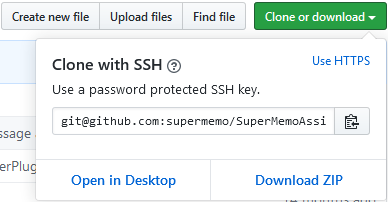
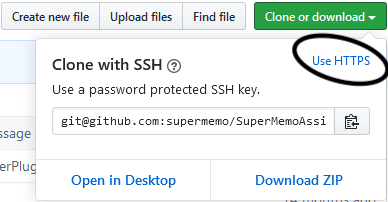
Edits
Made edits to content based on suggestions from people in SM discord. Added some optional suggestions for people to sync between computers and to ping commit.bat to taskbar. Integrated git setup with a MUCH easier method.

Changed region(s): [[0.7423, 0.1485, 1.0, 0.4455]]

diff --git a/docs/qs-backup-setup.md b/docs/qs-backup-setup.md
@@ -2,7 +2,7 @@
 
 #### Why should you backup ?
 
-!> ⚠ **Your collection is precious**. If you are using SuperMemo, you will likely be pouring days, weeks or months of your life in building it. Don't let it all go to waste. **Having frequent backups is vital**.
+!> ⚠ **Your collection is precious**. If you are using SuperMemo, you will likely be pouring days, weeks or months of your life into building it. Don't let it all go to waste. **Having frequent backups is vital**.
 
 Do you care about your health ? Would you take a gamble with your life and forfeit your health insurance ? If your answer is no, then keep reading.
 
@@ -30,19 +30,24 @@ As of the moment of writing this guide (2020/02), this solution is **free** (as 
 
 ##### I) (*Optional*) Create a partition for your SuperMemo collections
 
-For easier management of your files, and to save space for the frequent snapshots (more on these later), we recommend creating a partition dedicated to your SuperMemo collection.
+For easier management of your files, and to save space for the frequent snapshots (more on this later), we recommend creating a partition dedicated to your SuperMemo collection. A partition will allow you to keep your SuperMemo files completely seperated from your Window's C:/ drive. 
 
 ?> If you do not know how to create a partition in Windows, you can [follow this guide](https://www.tomshardware.com/news/how-to-make-partitions-windows-10,36643.html).
 
 You should obtain a layout similar to this one (it is fine if you only have one disk, instead of two as in this example):
+
 <img src="/content/images/backup-setup/computer-management-disks.png" data-origin="/content/images/backup-setup/computer-management-disks.png" alt="SuperMemo partition">
+
+
 
 ##### II) Install & Configuration
 
 ###### Installing BitShelter
 
+?>Note that BitShelter will likely not run on 32 bit systems
+
 1. Download and install [the latest version](https://github.com/alexis-/BitShelter/releases) of *BitShelter*
-2. Start **BitShelter Agent** from the Windows Start menu
+2. Start **BitShelter Agent** from the Windows Start menu.
 3. Double-click on the [Tray Icon ![](https://github.com/alexis-/BitShelter/raw/master/Resources/BitShelter.Agent_TrayIcon.png)](# '@tooltip-preview') 🖼
 
 ###### Enabling Windows' Volume Snapshot Service (VSS)
@@ -51,13 +56,15 @@ You should obtain a layout similar to this one (it is fine if you only have one 
 
 ?> **In this example, the SuperMemo collection Drive Letter is E:\**
 
-1. In the [Main Window ![](https://raw.githubusercontent.com/alexis-/BitShelter/master/Resources/BitShelter.Agent_Rules.png)](https://raw.githubusercontent.com/alexis-/BitShelter/master/Resources/BitShelter.Agent_Rules.png '@tooltip-preview'), click on the <kbd>**Add Schedule**</kbd> button
-2. Click on <kbd>**Enable other Drive(s)**</kbd> in the [General tab ![](https://github.com/alexis-/BitShelter/raw/master/Resources/BitShelter.Agent_General.png)](https://github.com/alexis-/BitShelter/raw/master/Resources/BitShelter.Agent_General.png '@tooltip-preview')
-3. Select the SuperMemo drive **(E:\\)** in the [System Protection dialog ![](https://github.com/alexis-/BitShelter/raw/master/Resources/SystemPropertiesProtection_2018-05-05_13-10-18.png)](https://github.com/alexis-/BitShelter/raw/master/Resources/SystemPropertiesProtection_2018-05-05_13-10-18.png '@tooltip-preview') and click on <kbd>**Configure**</kbd>
-4. In the [new dialog ![](https://github.com/alexis-/BitShelter/raw/master/Resources/SystemPropertiesProtection_2018-05-05_13-10-22.png)](https://github.com/alexis-/BitShelter/raw/master/Resources/SystemPropertiesProtection_2018-05-05_13-10-22.png '@tooltip-preview') click on <kbd>**Turn on protection**</kbd>, select at least 2GB of desired reserved space(\*) for Snapshots, then press <kbd>**OK**</kbd>
-5. Back in the [General tab ![](https://github.com/alexis-/BitShelter/raw/master/Resources/BitShelter.Agent_General.png)](https://github.com/alexis-/BitShelter/raw/master/Resources/BitShelter.Agent_General.png '@tooltip-preview'), click on <kbd>**Raise limit**</kbd>, and set the new limit to **512**
+1. In the [Main Window ![](https://raw.githubusercontent.com/alexis-/BitShelter/master/Resources/BitShelter.Agent_Rules.png)](https://raw.githubusercontent.com/alexis-/BitShelter/master/Resources/BitShelter.Agent_Rules.png '@tooltip-preview'), click on the <kbd>**Add Schedule**</kbd> button (If you get [this error ![](/content/images/backup-setup/bitshelter-error.png)](/content/images/backup-setup/bitshelter-error.png '@tooltip-preview'), install vc_redist.x64.exe from [here](https://support.microsoft.com/en-us/help/2977003/the-latest-supported-visual-c-downloads)).
+2. Click on <kbd>**Enable other Drive(s)**</kbd> in the [General tab ![](https://github.com/alexis-/BitShelter/raw/master/Resources/BitShelter.Agent_General.png)](https://github.com/alexis-/BitShelter/raw/master/Resources/BitShelter.Agent_General.png '@tooltip-preview').
+3. Select the SuperMemo drive **(E:\\)** in the [System Protection dialog ![](https://github.com/alexis-/BitShelter/raw/master/Resources/SystemPropertiesProtection_2018-05-05_13-10-18.png)](https://github.com/alexis-/BitShelter/raw/master/Resources/SystemPropertiesProtection_2018-05-05_13-10-18.png '@tooltip-preview') and click on <kbd>**Configure**</kbd>.
+4. In the [new dialog ![](https://github.com/alexis-/BitShelter/raw/master/Resources/SystemPropertiesProtection_2018-05-05_13-10-22.png)](https://github.com/alexis-/BitShelter/raw/master/Resources/SystemPropertiesProtection_2018-05-05_13-10-22.png '@tooltip-preview') click on <kbd>**Turn on protection**</kbd>, select at least 2GB of desired reserved space for Snapshots, then press <kbd>**OK**</kbd> to both System Protection and System Properties windows.
 
-\*: *If you chose not to create a partition dedicated to SuperMemo, the reserved space will be used up by all the other modifications written to your partition. You should consequently increase the reserved space.*
+!>If you chose not to create a dedicated partition for SuperMemo, increase reserve space significantly. As BitShelter will then run across your entire C:/ drive, it will be filled by all modifications made by any files in windows rather than SuperMemo alone.
+
+5. Back in the [General tab ![](https://github.com/alexis-/BitShelter/raw/master/Resources/BitShelter.Agent_General.png)](https://github.com/alexis-/BitShelter/raw/master/Resources/BitShelter.Agent_General.png '@tooltip-preview'), click on <kbd>**Raise limit**</kbd>, and set the new limit to **512**.
+
 
 ###### Creating snapshot rules in BitShelter
 
@@ -82,18 +89,33 @@ You should obtain a layout similar to this one (it is fine if you only have one 
 	* **End on**: *Never*
   3. Press the **Create** button
 
+Your final BitShelter settings should look similar to the following configuration:
+
+<img src="/content/images/backup-setup/bitshelter-rules.png" data-origin="content/images/backup-setup/bitshelter-rules.png" alt="">
+
 #### You are done... Almost !
 
-!> It is highly recommended that you **make sure everything is working as intended**. [Verify the snapshots](https://www.howtogeek.com/howto/11130/restore-previous-versions-of-files-in-every-edition-of-windows-7/) are properly created on your SuperMemo Drive **(E:\\)**
+!> It is highly recommended that you **make sure everything is working as intended**. 
 
-Your BitShelter settings should look similar to the following configuration:
-<img src="/content/images/backup-setup/bitshelter-rules.png" data-origin="content/images/backup-setup/bitshelter-rules.png" alt="">
+Try out the following instructions and see if you're actually able to open up and use a copy made by BitShelter.
 
 #### Oh no. Something happened to my Collection. How to save the day ?
 
-Don't panic ! Follow [this guide](https://www.howtogeek.com/howto/11130/restore-previous-versions-of-files-in-every-edition-of-windows-7/) to restore your collection to an earlier version.
+Don't panic! Restoring your collection to an earlier version is easy with BitShelter! 
 
-<img src="/content/images/backup-setup/bitshelter-restore-previous-version.png" data-origin="content/images/backup-setup/bitshelter-restore-previous-version.png" alt="">
+1. Right click on your collection folder and click on **Restore previous versions**
+
+<img src="/content/images/backup-setup/bitshelter-restorepre.png" data-origin="content/images/backup-setup/bitshelter-restorepre.png" alt="">
+
+2. Click on the copy you'd like to go back to:
+
+<img src="/content/images/backup-setup/bitshelter-restoremenu.png" data-origin="content/images/backup-setup/gitsetup-bitshelter-restoremenu" alt="">
+
+3. You can then click restore, to overwrite current version of the folder, or click open to browse the files:
+
+<img src="/content/images/backup-setup/bitshelter-restoremenu2.png" data-origin="content/images/backup-setup/gitsetup-bitshelter-restoremenu2" alt="">
+
+!> If you have issues with the above instuctions, you can also refer to [this guide](https://www.howtogeek.com/howto/11130/restore-previous-versions-of-files-in-every-edition-of-windows-7/) <img src="/content/images/backup-setup/bitshelter-restore-previous-version.png" data-origin="content/images/backup-setup/bitshelter-restore-previous-version.png" alt="">
 
 ### Internet backups: Git & Github
 
@@ -101,49 +123,74 @@ Don't panic ! Follow [this guide](https://www.howtogeek.com/howto/11130/restore-
 
 ?> **Git** is a tool that makes it easier to track changes to files. When you edit a file, git can help you determine exactly *what* changed, *who* changed it, and *why*. <br /><br />It is useful for coordinating work among multiple people on a project, and for tracking progress over time by saving “checkpoints”. You could use it while writing an essay, or to track changes to artwork and design files. [\[1\]](https://hackernoon.com/understanding-git-fcffd87c15a3)
 
-For our purpose, **git** will be our mean to:
+**For our purposes**, ***git*** will be our mean to:
 - Create versions of our collection (*\"checkpoints\"*).
 - Upload\* our work to a safe\*\*, remote place.
 - *(Bonus)* Synchronize our work between devices.
 
-\*: GitHub has a 1GB limit on free private repositories.
-\*\*: *Although GitHub can be considered fairly reliable, we highly recommend that you implement a solution to encrypt your collection. This is, after all, a way to your most inner thoughts.*
+\*: GitHub has a 1GB limit on free private repositories. [GitLab](https://about.gitlab.com) offers 10gb free storage by default and [BitBucket](http://bitbucket.org) offers a 5gb plan for 3$. 
+
+\*\*: *Although GitHub can be considered fairly reliable, we highly recommend that you implement a solution to encrypt your collection. This is, after all, a way to your innermost thoughts.*
 
 #### Installing & Setting up Git with GitHub
 
-1. Create a [GitHub account](https://github.com/join/)
-2. [Follow this guide](https://vladmihalcea.com/tutorials/git/windows-git-ssh-authentication-to-github/) to:
-  - Install Git
-  - Setup a SSH key that automatically authenticate your Git installation with your GitHub account
+!> If you want to use SSH authentication instead of HTTPS, follow [this guide](https://vladmihalcea.com/tutorials/git/windows-git-ssh-authentication-to-github/)
+
+1. Create a [GitHub account](https://github.com/join/).
+
+2. Download [Git for Windows](https://gitforwindows.org/).
+
+3. Install it with default settings
+
+5. Open a command prompt: type `cmd.exe`, then press <kbd>Enter</kbd> and run the following two commands (with your own name and email you use for github):
+
+   ```
+   git config --global user.name "Piotr Wozniak"
+   git config --global user.email woz@supermemo.org
+   ```
+   Setup is now complete!
   
 #### Creating & Synchronizing your GitHub repository
 
-?> **In this example, the GitHub repository name will be named SuperMemo-Collection**
+?> **In this example, the GitHub repository we create will be named SuperMemo-Collection**
 
-1. Create a [new repository](https://github.com/new)
+1. Create a [new repository](https://github.com/new):
   - Give a name to your new repo (e.g. *SuperMemo-Collection*)
   - Select **Private**
+  - It is recommended to click **Initialize this repository with a README** to be able to immediately clone to computer
+
+<img src="/content/images/backup-setup/gitsetup-initialize.png" data-origin="content/images/backup-setup/gitsetup-initialize.png" alt="">
+
 2. In your SuperMemo Drive (**E:\\**), open a command prompt: type `cmd.exe`, then press <kbd>Enter</kbd>
 
 <img src="/content/images/backup-setup/windows-explorer-cmd.png" data-origin="content/images/backup-setup/windows-explorer-cmd.png" alt="">
 
-3. Go to your **GitHub repository** web page, click the <kbd>**Clone or download**</kbd> button, and copy the link.
+3. Go to your **GitHub repository** web page, click the <kbd>**Clone or download**</kbd> button, and **press use HTTPS**.
 
 <img src="/content/images/backup-setup/github-clone-link.png" data-origin="content/images/backup-setup/github-clone-link.png" alt="">
 
-4. In the **command prompt**, type `git clone <git@github.com:......>`. Replace the text between **< >** with the link you copied from GitHub.
-5. Your repository is now synchronized with your computer. Copy your SuperMemo collection in the new folder. Your folder should look similar to the example below (*.gitignore* might be missing):
+4. Copy the link starting with https://
+
+<img src="/content/images/backup-setup/gitsetup-clonehttps.png" data-origin="content/images/backup-setup/gitsetup-clonehttps.png" alt="">
+
+5. In the **command prompt**, type `git clone <https://github.com/......>`. Replace the text between **< >** with the link you copied from GitHub. 'git clone' will create a local copy of your github repository. 
+
+6. A popup will appear. Login with your GitHub account to authenticate.
+
+<img src="/content/images/backup-setup/gitsetup-login.png" data-origin="content/images/backup-setup/gitsetup-login.png" alt="">
+
+7. Your repository is now synchronized with your computer. Copy your SuperMemo collection into the new folder. Your folder should look similar to the example below (*.gitignore* might be missing):
 
 <img src="/content/images/backup-setup/git-local-collection-repository.png" data-origin="content/images/backup-setup/git-local-collection-repository.png" alt="">
 
-6. <a href="/content/data/sm-main-commit.bat" target="_blank" rel="noopener">Download this .bat file</a> and save it in your local repository folder (where your `.git` directory is located). It contains the following commands:
+8. <a href="/content/data/sm-main-commit.bat" target="_blank" rel="noopener">Download this .bat file</a> and save it in your local repository folder (where your `.git` directory is located). It contains the following commands:
 
 ```bat
 git add -A && git commit -m "Update"
 git push
 ```
 
-7. Run `sm-main-commit.bat` (double click). If all went well, your should be able to see your collection in your GitHub repository web page.
+9. Run `sm-main-commit.bat` (double click). If all went well, your should be able to see your collection in your GitHub repository web page.
 
 #### Pushing (*\"saving\"*) your work to GitHub
 
@@ -151,12 +198,46 @@ git push
 
 That's all ! Your collection is synchronized online, congratulations !
 
+
+
+#### Optional: Pin commit script to taskbar
+
+To make running sm-main-commit.bat more convenient, you can add it to taskbar. Windows doesn't let you add .bat files to taskbar so instead you can do the following:
+
+1. Right click on sm-main-commit.bat and click [create shortcut ![](/content/images/backup-setup/shortcut-creation.png)](/content/images/backup-setup/shortcut-creation.png '@tooltip-preview').
+
+2. The new shortcut still can't be added to taskbar. As such, right click properties and [go to shortcuts menu ![](/content/images/backup-setup/shortcut-edit.png)](/content/images/backup-setup/shortcut-edit.png '@tooltip-preview'). Add ```cmd /c``` (```cmd \c``` will not work) to the front of [ the target script ![](/content/images/backup-setup/shortcut-target.png)](/content/images/backup-setup/shortcut-target.png '@tooltip-preview') and press apply:
+
+3. You can now [right click the shortcut ![](/content/images/backup-setup/shortcut-taskbar.png)](/content/images/backup-setup/shortcut-taskbar.png '@tooltip-preview') and add it to taskbar. After you are done using SuperMemo, click the shortcut in taskbar (or use winkey + taskbar position number key) to sync changes to your collections's Github repository.
+
+#### Optional: Sync SuperMemo between computers
+
+!>As a slight mishap could cause data loss, don't try this without understanding the git commands involved. To learn more about how git works, check out [this guide](https://hackernoon.com/understanding-git-fcffd87c15a3) or this [interactive tutorial](https://learngitbranching.js.org/)
+
+The starting computer will be referred to as 'A' and the target computer you want to sync your collection to will be 'B'
+
+1. On computer A,  <a href="/content/data/sm-main-pull.bat" target="_blank" rel="noopener">download this .bat file</a> and save it in your local repository folder (where your `.git` directory is located). It contains the following commands:
+
+```bat
+git fetch --all
+git reset --hard origin/master
+```
+?>These commands override the local repository's files for the ones that you've most recently uploaded to git
+
+2. Run `sm-main-commit.bat` on computer A (so that sm-main-pull.bat is in your collection repository).
+
+3. Use git clone to initialize the repository on computer B 
+
+4.  Now, when you want to transfer from A to B or vice-versa, run `sm-main-commit.bat` on the computer you're transferring from and `sm-main-pull.bat` on the one you're transferring to
+
+!>Be extremely certain that you have no important files that haven't been uploaded before running sm-main-pull.bat as it will overrite all local changes
+
 ## Suggestions to improve your backup strategy
 
 > Work in progress. Come back later !
 
 - [Encrypt your GitHub repository](https://github.com/AGWA/git-crypt).
-- Implement the [3-2-1 Backup Rule](https://www.acronyms-it.co.uk/blog/backup-rule-of-three/) ([Visual guide](https://github.com/alexis-/BitShelter/raw/master/Resources/X35Ndt4et3JGm9GU-GFTa6y6o4OSnUrVKyUh2y5s8_E.png)).
+- Implement the [3-2-1 Backup Rule](https://www.acronyms-it.co.uk/blog/backup-rule-of-three/) <a href="/content/images/backup-setup/321Backup.png">(Visual Guide)</a>.
 - Make your SuperMemo partition a [Mirrored Volume (RAID 1)](https://www.windowscentral.com/how-set-mirrored-volume-file-redundancy-windows-10).
 
 ## Testimonies
